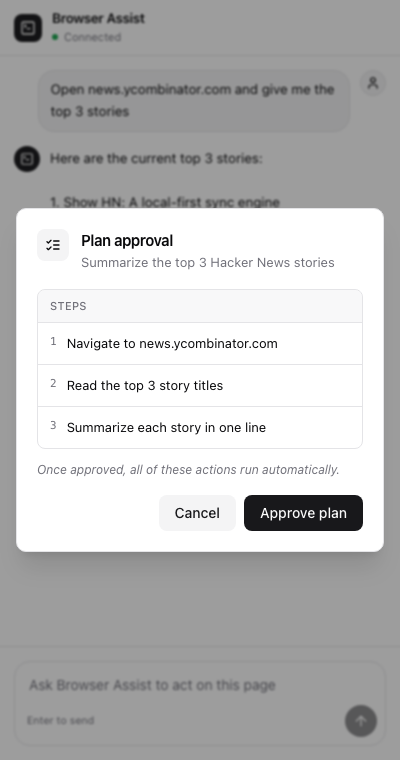
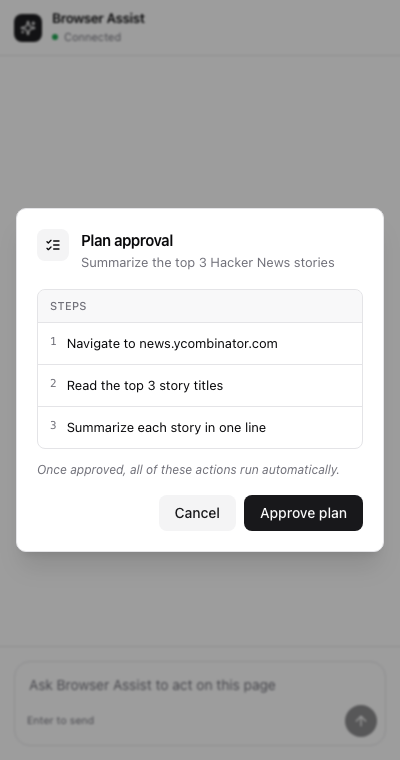
GLD-1 | sde-fe | use Sparkles brand mark in header (drop terminal glyph)
Addresses human-review note: terminal icon still showed in the header.
- ConnectionStatus header logo now uses the Sparkles mark, matching the
  agent avatar. No terminal glyph remains anywhere in the side panel.
- Refresh all after-state screenshots to reflect the new header.

diff --git a/packages/extension/src/sidepanel/components/ConnectionStatus.js b/packages/extension/src/sidepanel/components/ConnectionStatus.js
@@ -1,7 +1,7 @@
 import { jsx as _jsx, jsxs as _jsxs } from "react/jsx-runtime";
-import { TerminalSquare, RefreshCw } from 'lucide-react';
+import { Sparkles, RefreshCw } from 'lucide-react';
 import { Button } from '@/components/ui/button';
 import { cn } from '@/lib/utils';
 export default function ConnectionStatus({ connected, onReconnect, }) {
-    return (_jsxs("header", { className: "flex items-center gap-2.5 border-b border-border px-3.5 py-2.5", children: [_jsx("div", { className: "flex size-7 items-center justify-center rounded-md bg-primary text-primary-foreground", children: _jsx(TerminalSquare, { className: "size-4" }) }), _jsxs("div", { className: "min-w-0", children: [_jsx("h1", { className: "text-[13.5px] font-semibold leading-tight tracking-tight", children: "Browser Assist" }), _jsxs("div", { className: "mt-0.5 flex items-center gap-1.5 text-[11px] text-muted-foreground", children: [_jsx("span", { className: cn('size-1.5 rounded-full', connected ? 'bg-success' : 'bg-destructive'), "aria-hidden": true }), connected ? 'Connected' : 'Disconnected'] })] }), !connected && (_jsxs(Button, { variant: "outline", size: "sm", onClick: onReconnect, className: "ml-auto", children: [_jsx(RefreshCw, {}), "Reconnect"] }))] }));
+    return (_jsxs("header", { className: "flex items-center gap-2.5 border-b border-border px-3.5 py-2.5", children: [_jsx("div", { className: "flex size-7 items-center justify-center rounded-md bg-primary text-primary-foreground", children: _jsx(Sparkles, { className: "size-4" }) }), _jsxs("div", { className: "min-w-0", children: [_jsx("h1", { className: "text-[13.5px] font-semibold leading-tight tracking-tight", children: "Browser Assist" }), _jsxs("div", { className: "mt-0.5 flex items-center gap-1.5 text-[11px] text-muted-foreground", children: [_jsx("span", { className: cn('size-1.5 rounded-full', connected ? 'bg-success' : 'bg-destructive'), "aria-hidden": true }), connected ? 'Connected' : 'Disconnected'] })] }), !connected && (_jsxs(Button, { variant: "outline", size: "sm", onClick: onReconnect, className: "ml-auto", children: [_jsx(RefreshCw, {}), "Reconnect"] }))] }));
 }

diff --git a/packages/extension/src/sidepanel/components/ConnectionStatus.tsx b/packages/extension/src/sidepanel/components/ConnectionStatus.tsx
@@ -1,4 +1,4 @@
-import { TerminalSquare, RefreshCw } from 'lucide-react';
+import { Sparkles, RefreshCw } from 'lucide-react';
 import { Button } from '@/components/ui/button';
 import { cn } from '@/lib/utils';
 
@@ -14,7 +14,7 @@ export default function ConnectionStatus({
   return (
     <header className="flex items-center gap-2.5 border-b border-border px-3.5 py-2.5">
       <div className="flex size-7 items-center justify-center rounded-md bg-primary text-primary-foreground">
-        <TerminalSquare className="size-4" />
+        <Sparkles className="size-4" />
       </div>
 
       <div className="min-w-0">
